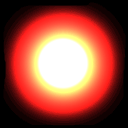
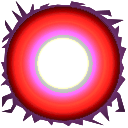
[1901280135]攻撃アクター(ビルボードテスト描画)、タイトル(画像描画)

diff --git a/3dFrameWark/3dFrameWark/Character/Player/PlayerAttack/Attack1.cpp b/3dFrameWark/3dFrameWark/Character/Player/PlayerAttack/Attack1.cpp
@@ -1,4 +1,5 @@
 #include "Attack1.h"
+#include "../../../Billboard/Billboard.h"
 
 Attack1::Attack1(std::string l_name,const Vector3 & l_position, float l_radius, const Matrix & matrix)
 	:m_timer{ 2.0f }
@@ -6,7 +7,7 @@ Attack1::Attack1(std::string l_name,const Vector3 & l_position, float l_radius, 
 	m_name = l_name;
 	m_position = l_position;
 
-	bodyCapsule_ = BoundingCapsule{ Vector3{ 0.0f,3.0f,0.0f },Vector3{ 0.0f,3.0f,0.0f },l_radius };
+	bodyCapsule_ = BoundingCapsule{ Vector3{ 0.0f,l_radius,0.0f },Vector3{ 0.0f,l_radius,0.0f },l_radius };
 
 	m_rotation.Forward(matrix.Forward());
 }
@@ -21,7 +22,9 @@ void Attack1::update(float deltaTime)
 
 void Attack1::draw() const
 {
-	bodyCapsule_.draw(get_pose());
+	Billboard::bind(1);
+	Billboard::draw(m_position + Vector3{ 0.0f,5.0f,0.0f }, 50.0f, 0.5f, 0.5f,45.0f);
+	//bodyCapsule_.draw(get_pose());
 }
 
 void Attack1::react(Actor & other)

diff --git a/3dFrameWark/3dFrameWark/Character/Player/PlayerAction/PlayerAction_Break.cpp b/3dFrameWark/3dFrameWark/Character/Player/PlayerAction/PlayerAction_Break.cpp
@@ -166,9 +166,9 @@ void PlayerAction_Break::ActionUpdate(
 
 			m_yawRotation = 0.0f;
 			if (input_->Stay(PAD_INPUT_LEFT))
-				m_yawRotation = -0.2f;
+				m_yawRotation = -1.0f;
 			else if (input_->Stay(PAD_INPUT_RIGHT))
-				m_yawRotation = 0.2f;
+				m_yawRotation = 1.0f;
 			l_rotation *= Matrix::CreateRotationY(m_yawRotation);
 			l_prevposition = l_position;
 
@@ -186,7 +186,7 @@ void PlayerAction_Break::ActionUpdate(
 			{
 				world_->add_actor(
 					ActorGroup::EnemyAction,
-					new_actor<AttackBullet>("BreakAttack", l_position + (l_pose.Forward()*10.0f) + (Vector3::Up*15.0f), 15.0f, l_pose)
+					new_actor<AttackBullet>("BreakAttack", l_position + (l_pose.Forward()*10.0f) + (Vector3::Up), 15.0f, l_pose)
 				);
 				m_isSpawn = true;
 			}

diff --git a/3dFrameWark/3dFrameWark/Scene/Title/Title.cpp b/3dFrameWark/3dFrameWark/Scene/Title/Title.cpp
@@ -1,10 +1,16 @@
 #include "Title.h"
 #include "../SceneID.h"
 
+#include "../../Utility/Vector2/Vector2.h"
+#include "../../assetsID/AssetsID.h"
+
 void Title::start()
 {
 	m_isEnd = false;
 	input_.initialize(DX_INPUT_KEY_PAD1);
+
+	Graphics2D::initialize();
+	Graphics2D::load_sprite((int)SpriteID::TitleBack, "asset/2Dsprite/Title/TitleBack.png");
 }
 
 void Title::update(float deltaTime)
@@ -16,6 +22,7 @@ void Title::update(float deltaTime)
 
 void Title::draw() const
 {
+	Graphics2D::draw_sprite((int)SpriteID::TitleBack, Vector2::Zero);
 }
 
 bool Title::is_end() const
@@ -30,4 +37,5 @@ SceneID Title::next() const
 
 void Title::end()
 {
+	Graphics2D::finalize();
 }

diff --git a/3dFrameWark/3dFrameWark/GameFrame/GameFrame.cpp b/3dFrameWark/3dFrameWark/GameFrame/GameFrame.cpp
@@ -13,7 +13,7 @@ void GameFrame::start()
 {
 	sceneManager_.Add_Scece(SceneID::Title, new_scene<Title>());
 	sceneManager_.Add_Scece(SceneID::Game, new_scene<GamePlay>());
-	sceneManager_.Change_Scene(SceneID::Game);
+	sceneManager_.Change_Scene(SceneID::Title);
 }
 
 void GameFrame::update(float deltaTime)

diff --git a/3dFrameWark/3dFrameWark/Character/Player/PlayerAttack/AttackBullet.h b/3dFrameWark/3dFrameWark/Character/Player/PlayerAttack/AttackBullet.h
@@ -16,9 +16,13 @@ public:
 	virtual void react(Actor& other)override;
 
 private:
+	bool StageReact();
+
+private:
 	float m_radius;
 	float m_timer;
 	float m_bulletSpeed;
+	float m_angle;
 	
 };
 

diff --git a/3dFrameWark/3dFrameWark/Character/Player/PlayerActionBaseManager.h b/3dFrameWark/3dFrameWark/Character/Player/PlayerActionBaseManager.h
@@ -2,7 +2,7 @@
 #define _PLAYER_ACTION_MANAGER_H_
 
 #include "PlayerActionBase.h"
-#include "PlayerActionPtr.h""
+#include "PlayerActionPtr.h"
 
 class PlayerParameters;
 

diff --git a/3dFrameWark/3dFrameWark/Scene/Title/Title.h b/3dFrameWark/3dFrameWark/Scene/Title/Title.h
@@ -4,6 +4,7 @@
 #include "../../Scene/IScene.h"
 
 #include "../../Utility/Input/InputState.h"
+#include "../../Graphics2D/Graphics2D.h"
 
 class Title :public IScene
 {

diff --git a/3dFrameWark/3dFrameWark/assetsID/AssetsID.h b/3dFrameWark/3dFrameWark/assetsID/AssetsID.h
@@ -23,6 +23,7 @@ enum class SpriteID
 	Frame_Syaro,
 	Frame_Cocoa,
 	HpGauge,
+	TitleBack,
 };
 
 #endif

diff --git a/3dFrameWark/3dFrameWark/ActorGroupManager/ActorGroup.h b/3dFrameWark/3dFrameWark/ActorGroupManager/ActorGroup.h
@@ -8,6 +8,7 @@ enum class ActorGroup
 	PlayerAction,
 	EnemyAction,
 	Neutral,
+	Effect,
 };
 
 #endif
